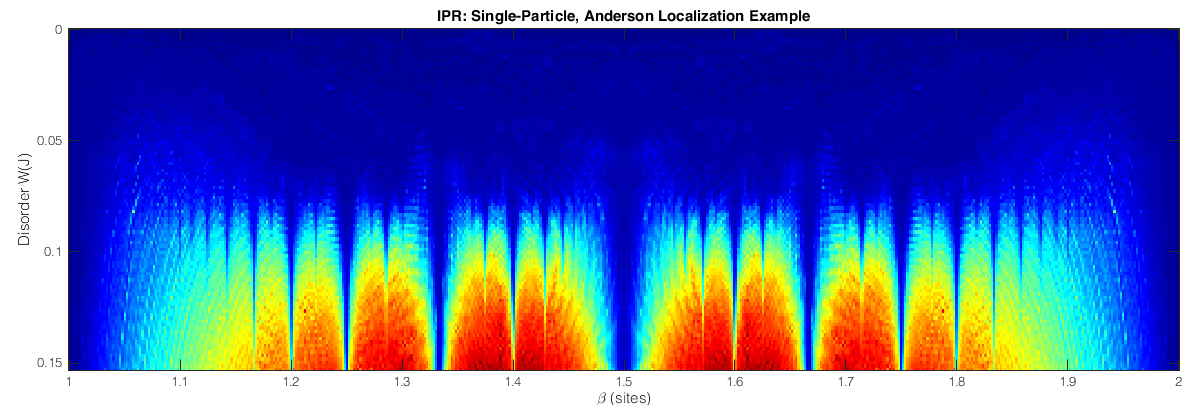
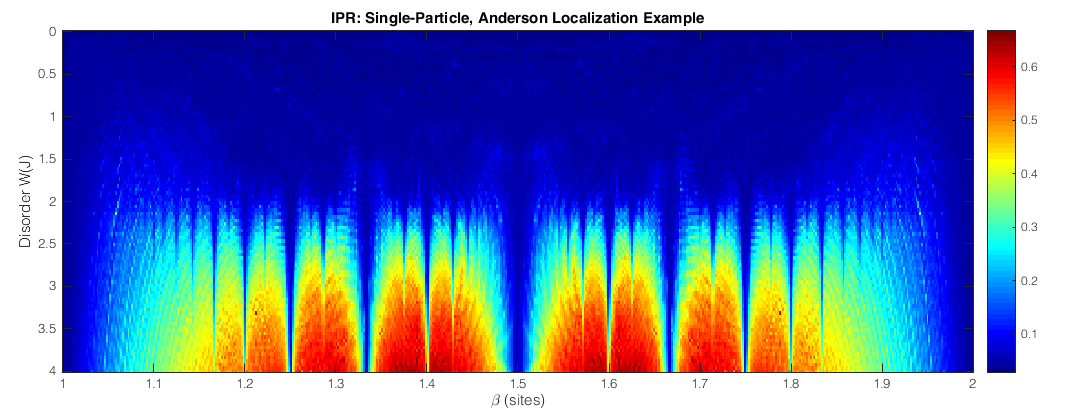
update to anderson localiation

diff --git a/andersonLocalizationScript.m b/andersonLocalizationScript.m
@@ -117,7 +117,7 @@ end
 %%
 figure(1)
 
-imagesc(BetaS,Ws,reshape(mean(IPRSave,2),[NW NB]))
+imagesc(BetaS,Ws./J,reshape(mean(IPRSave,2),[NW NB]))
 
 set(gcf,'color','white')
 xlabel('\beta (sites)')
